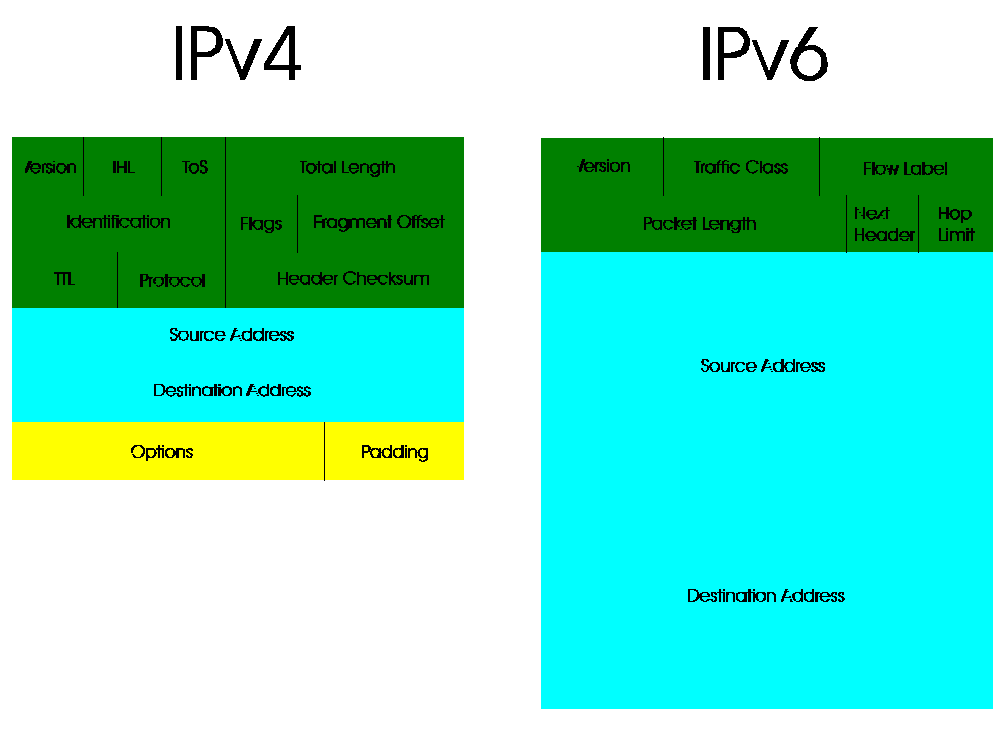
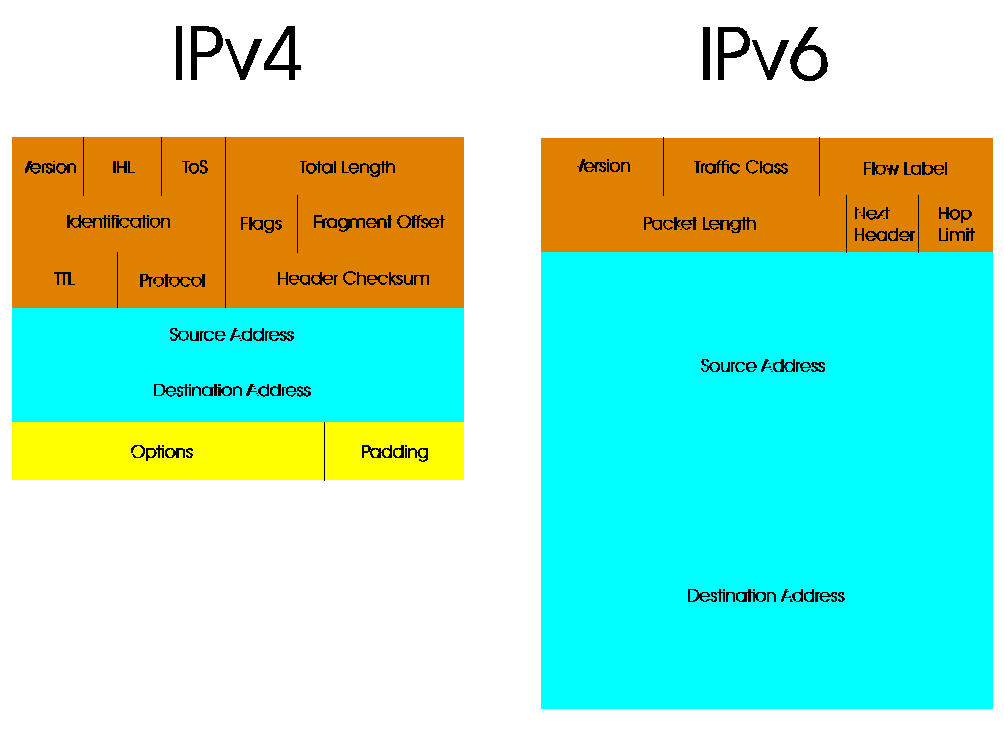
Fix GDDM extended color palette

Changed region(s): [[0.0, 0.1796, 0.4631, 0.419], [0.5249, 0.1796, 0.988, 0.3592]]

diff --git a/libgeist/src/img/gdf.cpp b/libgeist/src/img/gdf.cpp
@@ -46,24 +46,28 @@ struct ParserState {
 
 Color palette(std::uint8_t index) {
   static constexpr std::array<Color, 17> colors{{
-      {0, 0, 0, 255},
-      {0, 0, 255, 255},
-      {255, 0, 0, 255},
-      {255, 0, 255, 255},
-      {0, 255, 0, 255},
-      {0, 255, 255, 255},
-      {255, 255, 0, 255},
-      {255, 255, 255, 255},
-      {0, 0, 0, 255},
-      {128, 0, 0, 255},
-      {0, 128, 0, 255},
-      {0, 0, 128, 255},
-      {128, 128, 0, 255},
-      {128, 0, 128, 255},
-      {0, 128, 128, 255},
-      {64, 64, 64, 255},
+      {0, 255, 0, 255},     // 0 default, display green
+      {0, 0, 255, 255},     // 1 blue
+      {255, 0, 0, 255},     // 2 red
+      {255, 0, 255, 255},   // 3 pink / magenta
+      {0, 255, 0, 255},     // 4 green
+      {0, 255, 255, 255},   // 5 turquoise
+      {255, 255, 0, 255},   // 6 yellow
+      {255, 255, 255, 255}, // 7 neutral on displays
+      {0, 0, 0, 255},       // 8 background on displays
+      {0, 0, 128, 255},     // 9 dark blue
+      {224, 128, 0, 255},   // 10 orange
+      {128, 0, 128, 255},   // 11 purple
+      {0, 128, 0, 255},     // 12 dark green
+      {0, 128, 128, 255},   // 13 dark turquoise
+      {128, 128, 0, 255},   // 14 mustard
+      {128, 128, 128, 255}, // 15 gray
+      {128, 64, 0, 255},    // 16 brown
   }};
-  return colors[index < colors.size() ? index : 0];
+  if (index < colors.size()) {
+    return colors[index];
+  }
+  return colors[9 + ((index - 9) % 8)];
 }
 
 struct GdfFontStyle {

diff --git a/libgeist/tests/gdf_synthetic.cpp b/libgeist/tests/gdf_synthetic.cpp
@@ -236,6 +236,7 @@ std::vector<std::uint8_t> synthetic_packet_frame_gdf() {
   filled_box(0x02, 40, 60, 50, 80);
   filled_box(0x01, 50, 60, 100, 80);
   filled_box(0x08, 0, 40, 10, 50);
+  filled_box(0x0a, 70, 20, 80, 30);
   return gdf;
 }
 
@@ -341,6 +342,7 @@ int main(int argc, char** argv) {
     require_pixel(packet_frame, 450, 220, 255, 0, 0, "red fill");
     require_pixel(packet_frame, 750, 220, 0, 0, 255, "blue fill");
     require_pixel(packet_frame, 50, 405, 0, 0, 0, "black fill");
+    require_pixel(packet_frame, 750, 550, 224, 128, 0, "orange fill");
 
     if (argc > 1) {
       write_bmp(argv[1], image);

diff --git a/Format/GDF.md b/Format/GDF.md
@@ -145,6 +145,9 @@ Important IBM reference topics:
 | `B.11.2` | Character orders `0xc3`/`0x83`: optional coordinate followed by EBCDIC character bytes `>= 0x40`; current position is not changed. |
 | `B.11.3` | Character Set order `0x38`: one-byte local character-set identifier; `0x00` is default and `0x41..0xdf` are user-defined sets. |
 | `B.11.4` | Character Shear order `0x35`: vector defining upright-stroke shear relative to the baseline. |
+| `B.11.5` | Color order `0x0a`: one-byte value is an index into the default color table. |
+| `B.11.6` | Color Set Extended order `0x26`: two-byte value is an index into the color table; the loaded importer uses this path for BookManager packet figures. |
+| `C.1` | Color numbers and default GDDM color definitions, including extended colors `9..16` and the repeat rule for higher values. |
 
 The first BookManager bytes currently called the picture header are therefore
 also interpretable as the initial GDF comment order. For
@@ -346,6 +349,55 @@ Implementation consequences:
 7. The observed palette entry used by `0x26 02 00 08` is black for this
    ImageMark/GDDM path. Treating it as gray makes packet resource `2` labels
    visibly differ from the hosted reader output.
+
+### GDDM Color Numbers and Packet Resource 6 Evidence
+
+The GDF `0x0a` Color order and `0x26` Color Set Extended order select color
+numbers, not ImageMark's local `ISGDI32.INI` `Color[000]...Color[015]` table.
+IBM `QPRG1GDR` topic `B.11.5` documents `0x0a` as a one-byte index to the
+default color table, and topic `B.11.6` documents `0x26` as a two-byte color
+table index. Appendix `C.1`, "Color Numbers", gives the default GDDM color
+definitions:
+
+| Color number | GDDM definition | Display interpretation used by `libgeist` |
+| ---: | --- | --- |
+| `0` | Default | Green. |
+| `1` | Blue | Blue. |
+| `2` | Red | Red. |
+| `3` | Magenta | Pink/magenta. |
+| `4` | Green | Green. |
+| `5` | Turquoise | Turquoise/cyan. |
+| `6` | Yellow | Yellow. |
+| `7` | Neutral | White on displays. |
+| `8` | Background | Black/background on displays. |
+| `9` | Dark blue | Dark blue. |
+| `10` | Orange | Orange. |
+| `11` | Purple | Purple. |
+| `12` | Dark green | Dark green. |
+| `13` | Dark turquoise | Dark turquoise. |
+| `14` | Mustard | Mustard. |
+| `15` | Gray | Gray. |
+| `16` | Brown | Brown. |
+| `17..32767` | Repeats `9..16` | Repeat the extended-color cycle. |
+
+`BOO/packet.boo` resource `6` demonstrates why this distinction matters. The
+payload has repeated `0x26 02 00 0a` orders before filled areas; the hosted
+BookServer image generated at:
+
+```text
+http://cbrdoc01.lan.cyber.gent/bookmgr/pictures/packet.20260614112503.P6.GIF
+```
+
+renders those areas as orange, with sampled RGB `(224,128,0)`. The same
+resource also uses `0x26 02 00 05` as turquoise/cyan, `0x26 02 00 06` as
+yellow, and `0x26 02 00 08` as black/background. The previous `libgeist`
+palette incorrectly mapped color number `10` to dark green, causing the large
+orange shaded areas in `render/packet/6.png` to appear as dark green.
+
+The shipped filter stack also contains static palette evidence for this orange
+entry: byte triplet `00 80 e0` appears in `Official Readers/Transmogrifier/IMGDF2.FLT`
+and `80 e0 00` appears in `Official Readers/Transmogrifier/ISGDI32.DLL`,
+consistent with a BGR/RGB storage variant of `(224,128,0)`.
 
 ### Text and Font Handling
 

diff --git a/AnalysisNotes/gdf-opcode-analysis-workflow.md b/AnalysisNotes/gdf-opcode-analysis-workflow.md
@@ -46,6 +46,9 @@ Useful topics:
 | `/B.11.2` | Character Order | Confirms EBCDIC string bytes, valid range `>= 0x40`, and that GDF character orders do not update current position. |
 | `/B.11.3` | Character Set Order | Defines `0x38` as a one-byte local character-set id, with `0x00` default and `0x41..0xdf` user-defined sets. |
 | `/B.11.4` | Character Shear Order | Defines the IBM shear vector semantics and the expected opcode `0x35`, which differs from the loaded filter's dispatched `0x36` handler. |
+| `/B.11.5` | Color Order | Defines `0x0a` as a color-table index and lists the default one-byte color meanings. |
+| `/B.11.6` | Color Set Extended Order | Defines `0x26` as the two-byte extended color-table index used by the packet figures. |
+| `/C.1` | Color Numbers | Gives the GDDM color-number definitions, including `10 = Orange` and the `17..32767` repeat of `9..16`. |
 
 For the packet image comparison work, the BookServer copy of
 `BOO/packet.boo` was used as the upstream renderer:
@@ -238,6 +241,19 @@ Text/font-specific IDA findings:
   `./build/boorsrc --png BOO/packet.boo <id> /tmp/packet-render-cancel/<id>.png`
   and visually compared the original problem cases `P2`, `P6`, and the larger
   `P9` against the upstream GIFs.
+- Packet resource `6` was rechecked against BookServer output after a color
+  shade mismatch in `render/packet/6.png`. The validation fetch sequence was:
+  first fetch topic `2.4` from
+  `http://cbrdoc01.lan.cyber.gent/bookmgr/bookmgr.exe/BOOKS/packet/2.4?DT=20260614112503&SHELF=`,
+  then fetch
+  `http://cbrdoc01.lan.cyber.gent/bookmgr/pictures/packet.20260614112503.P6.GIF`.
+  The upstream GIF contains five colors: white, cyan, orange `(224,128,0)`,
+  yellow, and black. Local output before the fix used dark green `(0,128,0)`
+  where BookServer used orange. The GDF stream contains `0x26 02 00 0a` before
+  those filled areas; IBM `QPRG1GDR` Appendix `C.1` defines color number `10`
+  as Orange. Static checks of the shipped filters also found the orange byte
+  triplet in `Official Readers/Transmogrifier/IMGDF2.FLT` and
+  `Official Readers/Transmogrifier/ISGDI32.DLL`.
 
 ## Repeatable Procedure
 
